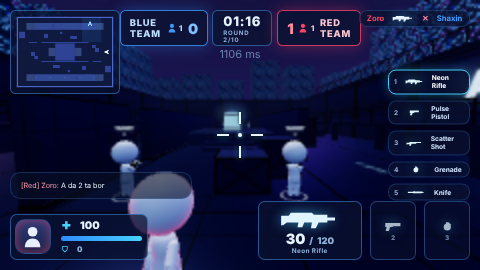
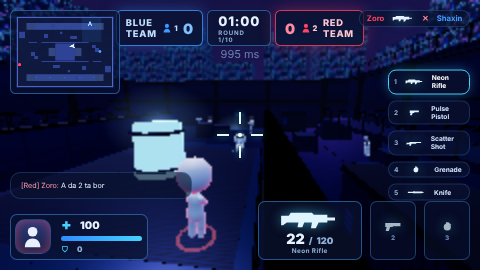
e2e: 4-player run (browser + protocol clients); sync sprint flag for remote animation; low quality skips 3D menu
Claude-Session: https://claude.ai/code/session_013ZNAVDHQzvxuSKCJDy4JBP

diff --git a/client/js/v/game/players.js b/client/js/v/game/players.js
@@ -103,6 +103,7 @@ export class RemotePlayer {
     if (!this.alive && s.alive) { this.av.anim.trigger('respawn'); this.events.push({ type: 'respawn' }); this.buf.length = 0; this.buf.push({ t, x: s.x, y: s.y, z: s.z, yaw: s.yaw, pitch: s.pitch }); }
     this.alive = s.alive;
     this.crouch = s.crouch;
+    this.sprint = !!s.sprint;
     this.kills = s.kills; this.deaths = s.deaths; this.hp = s.hp; this.team = s.teamId; this.name = s.name;
   }
   update (dt, renderT) {
@@ -123,7 +124,7 @@ export class RemotePlayer {
     const dy = Math.atan2(Math.sin(c.yaw - a.yaw), Math.cos(c.yaw - a.yaw));
     this.yaw = a.yaw + dy * Math.min(1, k);
     this.pitch = a.pitch + (c.pitch - a.pitch) * Math.min(1, k);
-    driveAvatar(this.av, dt, this.pos, this.vel, this.yaw, this.pitch, { airborne: !!c.airborne, crouch: this.crouch, sprint: Math.hypot(this.vel.x, this.vel.z) > 6.4, aiming: false });
+    driveAvatar(this.av, dt, this.pos, this.vel, this.yaw, this.pitch, { airborne: !!c.airborne, crouch: this.crouch, sprint: this.sprint, aiming: false });
   }
   dispose () { this.av.dispose(); }
 }

diff --git a/client/css/ns.css b/client/css/ns.css
@@ -8,7 +8,7 @@
   --s: 1;   /* JS (app.js) oyna o'lchamidan hisoblaydi — birliksiz masshtab */
 }
 * { box-sizing: border-box; -webkit-tap-highlight-color: transparent; }
-html, body { margin: 0; height: 100%; background: var(--bg); color: var(--ink); overflow: hidden; font-family: 'Segoe UI', system-ui, -apple-system, Roboto, sans-serif; user-select: none; -webkit-user-select: none; overscroll-behavior: none; touch-action: none; }
+html, body { margin: 0; height: 100%; background: radial-gradient(ellipse at 70% 40%, #1a2a6a 0%, #0a1030 45%, var(--bg) 80%); color: var(--ink); overflow: hidden; font-family: 'Segoe UI', system-ui, -apple-system, Roboto, sans-serif; user-select: none; -webkit-user-select: none; overscroll-behavior: none; touch-action: none; }
 #gl { position: fixed; inset: 0; width: 100%; height: 100%; display: block; }
 button { font: inherit; color: inherit; cursor: pointer; }
 code { font-family: ui-monospace, Consolas, monospace; color: var(--cyan); background: rgba(70, 210, 255, .08); padding: 2px 6px; border-radius: 6px; }

diff --git a/client/js/v/app.js b/client/js/v/app.js
@@ -59,7 +59,8 @@ class MenuScene {
   dispose () { this.on = false; removeEventListener('resize', this.resize); this.a.setWeapon(null); this.c.dispose(); this.env.dispose(); this.r.dispose(); }
 }
 function showMenuScene (on) {
-  if (on && !menuScene) menuScene = new MenuScene();
+  // LOW sifatda (kuchsiz qurilmalar) 3D menyu foni chizilmaydi — CSS fon
+  if (on && !menuScene && settings.quality !== 'low') menuScene = new MenuScene();
   if (!on && menuScene) { menuScene.dispose(); menuScene = null; }
 }
 

diff --git a/server/session.js b/server/session.js
@@ -724,6 +724,7 @@ export function playerSyncState (session, out = {}) {
   out.faceYaw = +m.faceYaw.toFixed(3);
   out.airborne = !!m.airborne;
   out.crouch = !!m.crouching;
+  out.sprint = !!m.sprinting;
   // animatsiya sinxronizatsiyasi (FAQAT ko'rsatish uchun — server qiymatlari)
   const lo = st.loadout;
   const wid = lo.ids[lo.index];
